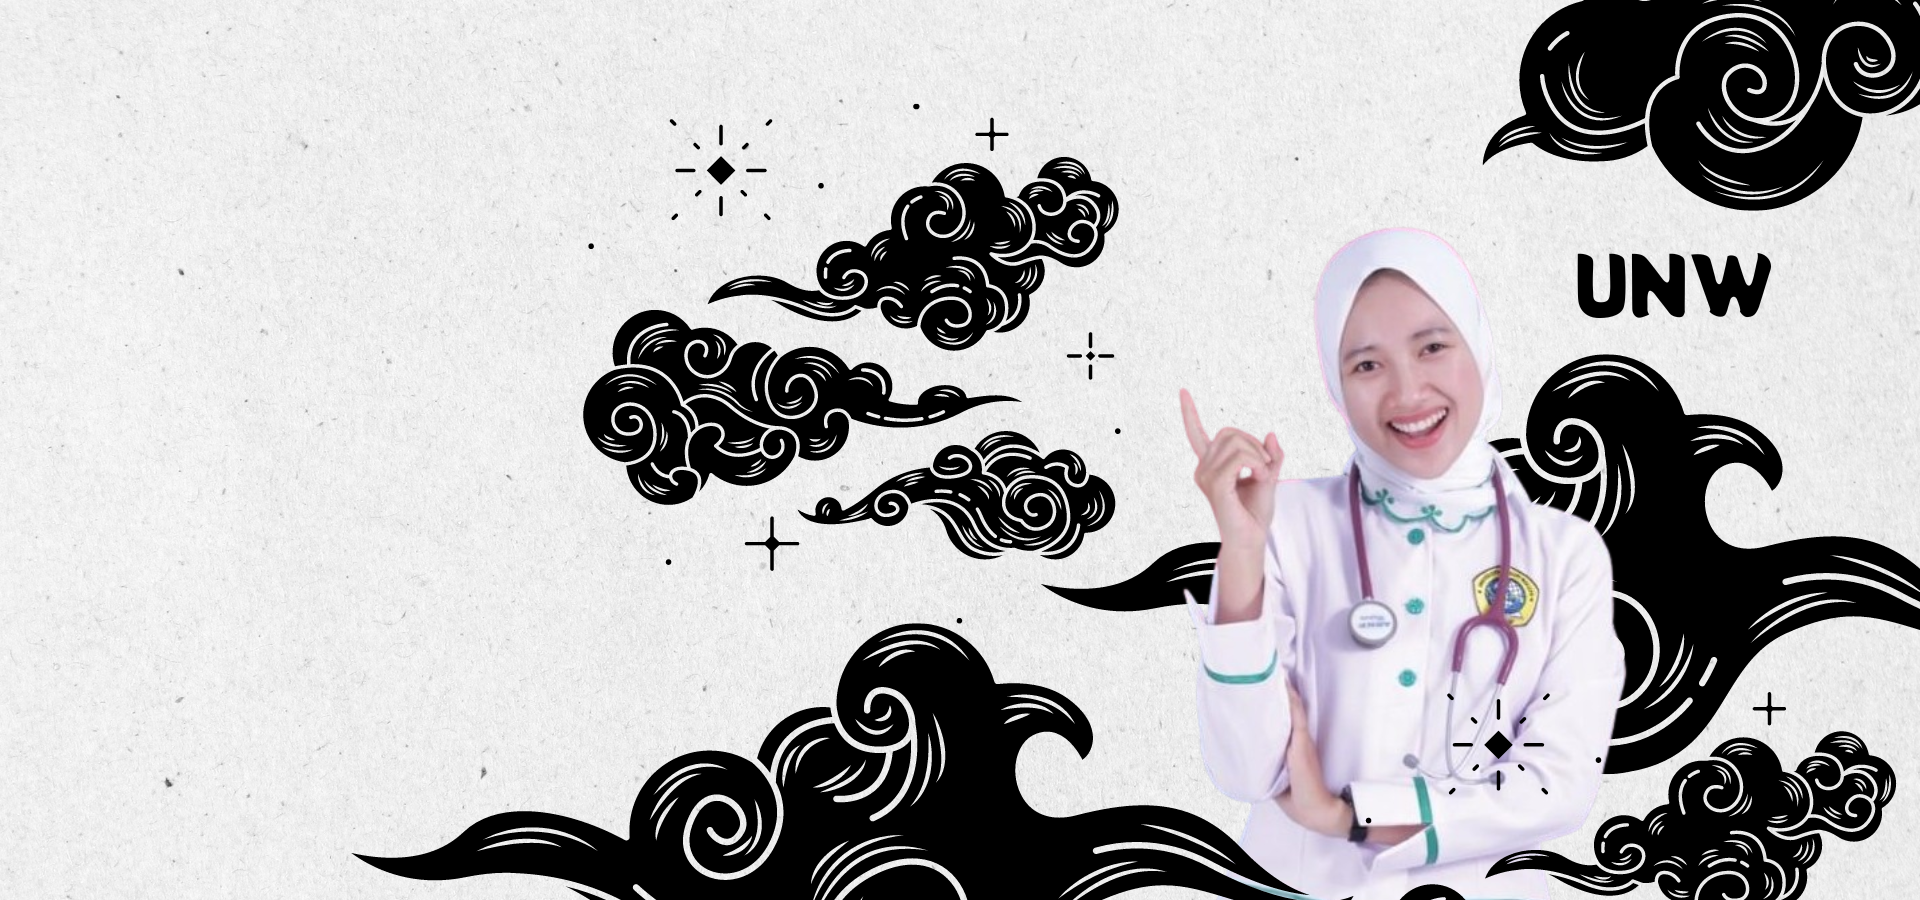
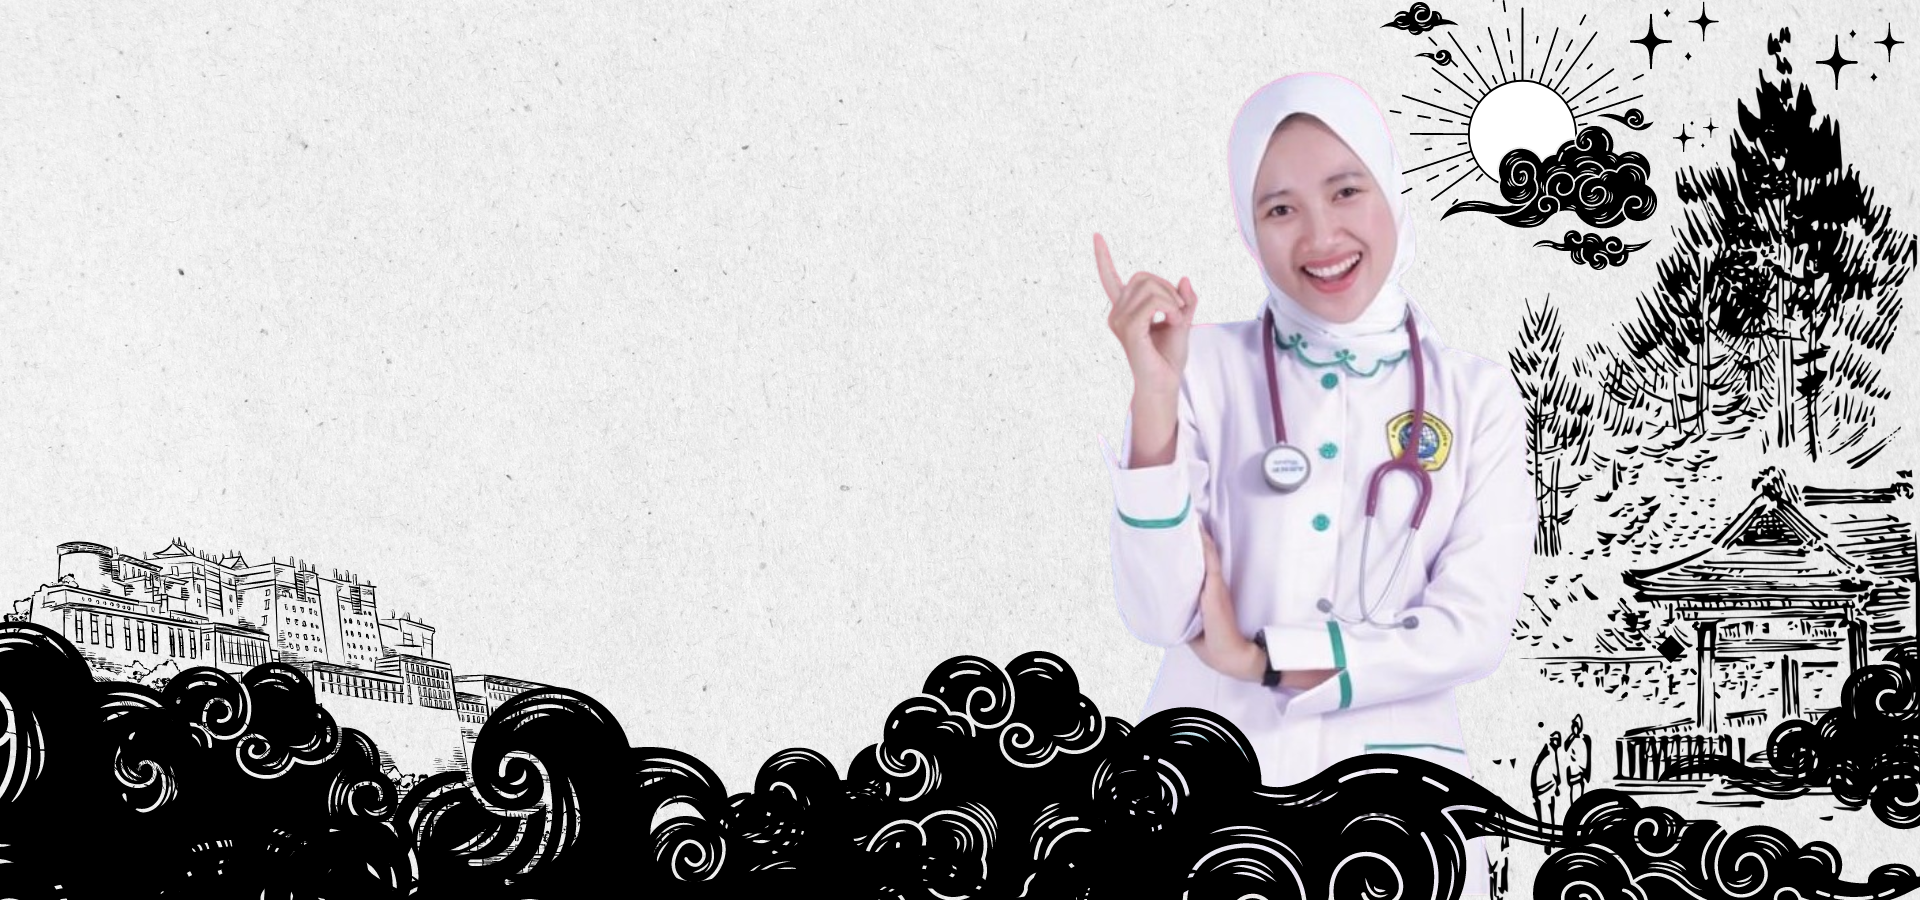
update tampilan home

diff --git a/assets/css/style.css b/assets/css/style.css
@@ -134,3 +134,115 @@
   }
 
 /* bagian menu untuk tampilan mobile  */
+
+/* bagian home */
+
+.slider-area {
+  margin-top: -1px;
+  background-image: url(../img/bg/UNW.png);
+  background-repeat: no-repeat;
+  background-position: center center;
+  background-size: cover;
+}
+.slider-area .hero__caption {
+  overflow: hidden;
+}
+.slider-area .hero__caption span {
+  font-size: 18px;
+  font-family: "Muli", sans-serif;
+  font-weight: 600;
+  margin-bottom: 35px;
+  text-transform: uppercase;
+  color: #396cf0;
+  display: inline-block;
+  position: relative;
+  padding-left: 100px;
+  letter-spacing: 0.05em;
+}
+@media (max-width: 575px) {
+  .slider-area .hero__caption span {
+    font-size: 13px;
+  }
+}
+@media (max-width: 575px) {
+  .slider-area .hero__caption span {
+    padding-left: 69px;
+  }
+}
+.slider-area .hero__caption span::before {
+  position: absolute;
+  content: "";
+  width: 70px;
+  height: 2px;
+  background: #396cf0;
+  top: 0;
+  left: 0px;
+  top: 50%;
+  transform: translateY(-50%);
+}
+@media (max-width: 575px) {
+  .slider-area .hero__caption span::before {
+    width: 50px;
+  }
+}
+.slider-area .hero__caption h1 {
+  font-size: 70px;
+  font-weight: 900;
+  margin-bottom: 14px;
+  color: #102039;
+  line-height: 1.2;
+  margin-bottom: 30px;
+  text-transform: uppercase;
+}
+@media only screen and (min-width: 992px) and (max-width: 1199px) {
+  .slider-area .hero__caption h1 {
+    font-size: 70px;
+    line-height: 1.2;
+  }
+}
+@media only screen and (min-width: 768px) and (max-width: 991px) {
+  .slider-area .hero__caption h1 {
+    font-size: 50px;
+    line-height: 1.2;
+  }
+}
+@media only screen and (min-width: 576px) and (max-width: 767px) {
+  .slider-area .hero__caption h1 {
+    font-size: 35px;
+    line-height: 1.4;
+  }
+}
+@media (max-width: 575px) {
+  .slider-area .hero__caption h1 {
+    font-size: 29px;
+    line-height: 1.5;
+  }
+}
+.slider-area .hero__caption h1 strong {
+  color: #0f61ee;
+}
+.slider-area .hero__caption p {
+  font-size: 18px;
+  color: #212025;
+  font-family: "Muli", sans-serif;
+  margin-bottom: 50px;
+  padding-right: 35px;
+}
+@media only screen and (min-width: 768px) and (max-width: 991px) {
+  .slider-area .hero__caption p {
+    padding-right: 13px;
+  }
+}
+@media only screen and (min-width: 576px) and (max-width: 767px) {
+  .slider-area .hero__caption p {
+    padding-right: 0px;
+  }
+}
+@media (max-width: 575px) {
+  .slider-area .hero__caption p {
+    padding-right: 0px;
+    font-size: 15px;
+  }
+}
+
+/* bagian home  */

diff --git a/index.html b/index.html
@@ -52,38 +52,35 @@
         </div>
         <!-- Header End -->
     </header>
-
-<div style="background-color:#f1f1f1;padding:15px;">
-  <h1>Cinque Terre</h1>
-  <h3>Resize the browser window</h3>
-</div>
-
-<div style="overflow:auto">
-  <div class="menu">
-    <div class="menuitem">The Walk</div>
-    <div class="menuitem">Transport</div>
-    <div class="menuitem">History</div>
-    <div class="menuitem">Gallery</div>
-  </div>
-
-  <div class="main">
-    <h2>The Walk</h2>
-    <p>The walk from Monterosso to Riomaggiore will take you approximately two hours, give or take an hour depending on the weather conditions and your physical shape.</p>
-    <img src="/assets/img/bg/UNW.png" style="width:100%">
-  </div>
-
-  <div class="right">
-    <h2>What?</h2>
-    <p>Cinque Terre comprises five villages: Monterosso, Vernazza, Corniglia, Manarola, and Riomaggiore.</p>
-    <h2>Where?</h2>
-    <p>On the northwest cost of the Italian Riviera, north of the city La Spezia.</p>
-    <h2>Price?</h2>
-    <p>The Walk is free!</p>
-  </div>
-</div>
-
-
-<div style="background-color:#f1f1f1;text-align:center;padding:10px;margin-top:7px;font-size:12px;"> This web page is a part of a demonstration of fluid web design made by w3schools.com. Resize the browser window to see the content respond to the resizing.</div>
+    <main>
+      <div class="slider-area position-relative">
+        <div class="slider-active">
+          <div class="single-slider slider-height d-flex align-items-center">
+            <div class="container">
+              <div class="row">
+                <div class="col-xl-7 col-lg-9 col-md-8 col-sm-9">
+                  <div class="hero__caption">
+                    <span>Selamat datang di website kami</span>
+                    <h1 class="cd-headline letters scale">
+                      Kami melayani tentang
+                      <strong class="cd-words-wrapper">
+                        <b class="is-visible">Kesehatan</b>
+                        <b>Artikel</b>
+                        <b>Konsultasi</b>
+                      </strong>
+                    </h1>
+                    <p data-animation="fadeInLeft" data-delay="0.1s">
+                      Kami bekerja dengan layanan penuh tanggunjawab, dengan
+                      kemanusiaan, dan jujur.
+                    </p>
+                  </div>
+                </div>
+              </div>
+            </div>
+          </div>
+        </div>
+      </div>
+    </main>
 
 </body>
 </html>
